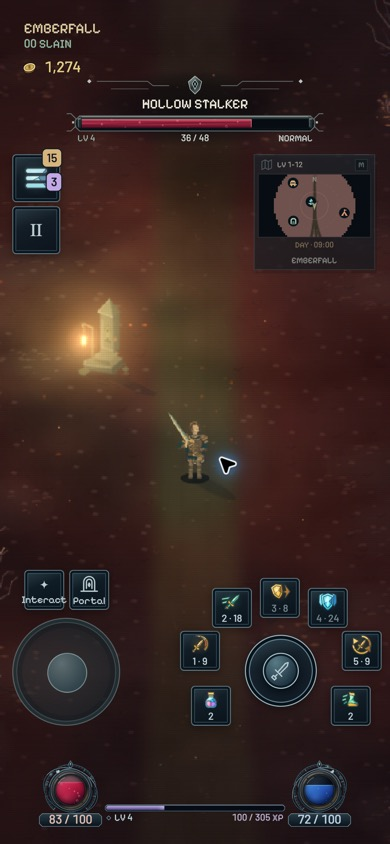
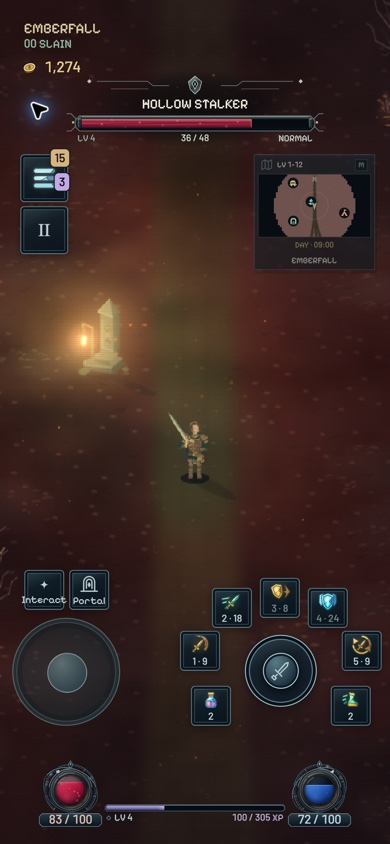
fix(mobile): align touch menu controls

Changed region(s): [[0.0308, 0.0924, 0.1846, 0.3081], [0.5231, 0.5237, 0.6154, 0.5853]]

diff --git a/game/src/touch-layout.ts b/game/src/touch-layout.ts
@@ -7,6 +7,10 @@ export type TouchMenuLayout = { rect: TouchRect; pause: TouchRect; mode: 'portra
 
 const MENU_BUTTON = 48;
 const MENU_GAP = 4;
+const LANDSCAPE_MENU_ART_INSET = 4;
+// The compact landscape header scales the gold artwork to 80%; its glow ends
+// roughly 48 CSS pixels below the safe top.
+const LANDSCAPE_GOLD_PANEL_BOTTOM = 48;
 // CSS-pixel landing just below the normal portrait target plate. This keeps the
 // two side controls aligned without making their position depend on target focus.
 const PORTRAIT_TARGET_PLATE_BOTTOM = 146;
@@ -20,7 +24,9 @@ export function touchWorldActionsTop(view: TouchViewport) {
 
 /** The compact navigation trigger stays at the edge while thumb controls own the bottom. */
 export function touchMenuLayout(view: TouchViewport, controlsTop = view.height): TouchMenuLayout {
-  const side = Math.max(12, view.left);
+  // Portrait world actions start at 24px and use 40px buttons. Center the
+  // 48px menu targets on their first button while preserving the safe inset.
+  const side = Math.max(20, view.left);
   const groupHeight = MENU_BUTTON * 2 + MENU_GAP;
   const safeTop = view.top + 4;
   const targetTop = Math.max(view.top + 4, PORTRAIT_TARGET_PLATE_BOTTOM + PORTRAIT_TARGET_GAP);
@@ -49,10 +55,13 @@ export function phoneLandscapeLayout(view: TouchViewport) {
   const scale = Math.min(.72, centeredResourceWidth / 440);
   const footer = {x:view.width/2-260*scale,y:view.height-bottom-147*scale,scale};
   const resources = {x:footer.x+40*scale,y:footer.y+54*scale,width:440*scale,height:93*scale};
-  const menuY = worldActions.y - MENU_BUTTON * 2 - MENU_GAP * 2;
+  const menuHeight = MENU_BUTTON * 2 + MENU_GAP;
+  const goldBottom = Math.max(8, view.top + LANDSCAPE_GOLD_PANEL_BOTTOM);
+  const menuY = (goldBottom + worldActions.y - menuHeight) / 2;
   const landscapeMenu = {mode:'landscape' as const,
-    rect:{x:move.x + move.width / 2 - MENU_BUTTON / 2,y:menuY,width:MENU_BUTTON,height:MENU_BUTTON},
-    pause:{x:move.x + move.width / 2 - MENU_BUTTON / 2,y:menuY+MENU_BUTTON+MENU_GAP,width:MENU_BUTTON,height:MENU_BUTTON}};
-  const menu = menuY >= Math.max(4, view.top) ? landscapeMenu : touchMenuLayout(view, worldActions.y);
+    rect:{x:worldActions.x-LANDSCAPE_MENU_ART_INSET,y:menuY,width:MENU_BUTTON,height:MENU_BUTTON},
+    pause:{x:worldActions.x-LANDSCAPE_MENU_ART_INSET,y:menuY+MENU_BUTTON+MENU_GAP,width:MENU_BUTTON,height:MENU_BUTTON}};
+  const menuFits = menuY >= Math.max(4, view.top) && menuY + menuHeight + MENU_GAP <= worldActions.y;
+  const menu = menuFits ? landscapeMenu : touchMenuLayout(view, worldActions.y);
   return {move,actions,worldActions,footer,resources,menu,bottom,left,right,top:Math.max(8,view.top+4)};
 }

diff --git a/game/tests/touch-layout.test.ts b/game/tests/touch-layout.test.ts
@@ -18,9 +18,11 @@ test('phone landscape resources and thumb controls remain separate across Safari
     if(layout.menu.mode==='landscape') {
       assert.equal(layout.menu.pause.x,layout.menu.rect.x);
       assert.equal(layout.menu.pause.y,layout.menu.rect.y+52);
-      assert.equal(layout.menu.rect.x+layout.menu.rect.width/2,layout.move.x+layout.move.width/2);
-      assert.equal(layout.menu.rect.x+layout.menu.rect.width/2,layout.worldActions.x+layout.worldActions.width/2);
-      assert.equal(layout.menu.pause.y+layout.menu.pause.height+4,layout.worldActions.y);
+      assert.equal(layout.menu.rect.x+4,layout.worldActions.x);
+      assert.equal(layout.menu.pause.x+4,layout.worldActions.x);
+      const goldBottom=Math.max(8,view.top+48);
+      const menuGroupCenter=(layout.menu.rect.y+layout.menu.pause.y+layout.menu.pause.height)/2;
+      assert.equal(menuGroupCenter,(goldBottom+layout.worldActions.y)/2);
     }
     assert.ok(Math.abs(layout.resources.x+layout.resources.width/2-width/2)<1e-9);
     assert.ok(Math.abs(layout.worldActions.x+layout.worldActions.width/2-layout.move.x-layout.move.width/2)<1e-9);
@@ -43,7 +45,8 @@ test('portrait menu trigger and minimap align just below the target plate',()=>{
   const controlsTop=touchWorldActionsTop(portrait);
   const menu=touchMenuLayout(portrait,controlsTop);
   assert.equal(menu.mode,'portrait'); assert.deepEqual([menu.rect.width,menu.rect.height],[48,48]);
-  assert.equal(menu.rect.x,12); assert.equal(menu.pause.x,menu.rect.x);
+  assert.equal(menu.rect.x,20); assert.equal(menu.pause.x,menu.rect.x);
+  assert.equal(menu.rect.x+menu.rect.width/2,24+40/2);
   assert.equal(menu.rect.y,154);
   assert.equal(menu.pause.y,menu.rect.y+52);
   assert.equal(touchMinimapTop(menu),menu.rect.y);

diff --git a/docs/touch-controls.md b/docs/touch-controls.md
@@ -36,7 +36,7 @@ Touch styles are scoped to `.touch-mode`. Menus, inventory, services, the atlas,
 
 Mobile/coarse-pointer browsers and the Android WebView use a `0.8` presentation-density profile captured at startup. The DOM viewport keeps its physical CSS dimensions and the existing world/UI buffer policies remain unchanged; the renderer exposes 1.25× the logical field in each dimension and scales its Canvas presentation without changing gameplay `CameraZoom`. Switching between touch and a physical controller does not reset this profile. The persistent secondary-menu targets remain at least 44 CSS pixels even where visual density is reduced.
 
-The compact HUD uses 40px skill and utility buttons, a 72px attack pad and a 108px movement disc. Portrait places a 48px colored menu trigger on the left and aligns its top with the translucent minimap on the right, leaving a small gap below the target plate. Pause remains a separate target below the trigger. The trigger opens the same five-destination list as the desktop HUD: Character, Inventory, Skill tree, Journeys and World map. Standard phone landscape stacks Menu and Pause above Interact/Portal; the three controls share the movement disc’s horizontal center, and the destination list opens beside the trigger as it does in portrait. Character opens Stats and Inventory opens Bag directly. Touch buttons use the Astral HUD’s inset silver and black-steel framing. All bottom controls leave a dedicated clearance band for the resource orbs, existing XP rail, numeric readouts and accumulating XP caption; reward flights retain their shared landing coordinates. In both orientations, the movement and attack circles share the same horizontal center line. Interact/Portal sits above the movement disc with an 8px gap; its top may sit slightly above the highest skill button to preserve that spacing. In landscape, the life/mana HUD shares the player’s horizontal center and the minimap returns to the safe top-right corner. Enemy and boss plates stay centered at the top on touch; phone landscape halves the prior top gap while preserving the safe-area inset. The local touch study includes a staged target plate for layout feedback. Desktop geometry is unchanged.
+The compact HUD uses 40px skill and utility buttons, a 72px attack pad and a 108px movement disc. Portrait places a 48px colored menu trigger on the left, centered over the first Interact/Portal button, and aligns its top with the translucent minimap on the right, leaving a small gap below the target plate. Pause remains a separate target below the trigger. The trigger opens the same five-destination list as the desktop HUD: Character, Inventory, Skill tree, Journeys and World map. Standard phone landscape stacks Menu and Pause above Interact/Portal; the visible button faces share a common left edge, and the destination list opens beside the trigger as it does in portrait. Character opens Stats and Inventory opens Bag directly. Touch buttons use the Astral HUD’s inset silver and black-steel framing. All bottom controls leave a dedicated clearance band for the resource orbs, existing XP rail, numeric readouts and accumulating XP caption; reward flights retain their shared landing coordinates. In both orientations, the movement and attack circles share the same horizontal center line. Interact/Portal sits above the movement disc with an 8px gap; its top may sit slightly above the highest skill button to preserve that spacing. In landscape, the life/mana HUD shares the player’s horizontal center and the minimap returns to the safe top-right corner. Enemy and boss plates stay centered at the top on touch; phone landscape halves the prior top gap while preserving the safe-area inset. The local touch study includes a staged target plate for layout feedback. Desktop geometry is unchanged.
 
 Touch panel chrome uses 40px header rows, 16px titles, 20px emblems and 32px close/toolbar controls. In landscape the character’s Bag/Equipment/Stats tabs share its title row; narrow portrait layouts wrap them below. Inventory section spacing and the XP footer are compact, leaving more height for actual items. Header labels suppress native text selection/callouts, while search and form inputs retain text editing. Desktop panel sizing stays unchanged.
 
@@ -50,7 +50,7 @@ The web app manifest and Apple metadata configure a Home Screen launch without S
 
 Landscape viewports at least 600px wide and at most 500px tall use a shared CSS-pixel layout (`touch-layout.ts`). The 96px movement stick and 202×148px action cluster sit in opposite bottom corners inside safe areas. The Astral resource footer scales into the gap between them instead of lifting the controls above it. Gold and XP flights land at the same relocated counters. The target plate is a compact 173×50px at the top, and top-left counters respect the notch inset.
 
-The colored navigation trigger and Pause form a vertical column above Interact/Portal on the movement-disc axis. The destination list opens beside the trigger and is height-bounded when landscape space is short. The mini journey tracker is omitted in this layout; a reduced translucent minimap remains visible for orientation. One compact pickup notification is shown below the target plate. Safari visual-viewport changes resize the shell, world buffer, native UI and touch geometry together. The static touch study uses the same presentation policy and layout. These are code-checked bounds, not a claim of physical iPhone acceptance.
+The colored navigation trigger and Pause form a vertical column above Interact/Portal. Their visible 40px faces align to the left edge of its first button, and the column is centered in the open space between the gold header and Interact/Portal. The destination list opens beside the trigger and is height-bounded when landscape space is short. The mini journey tracker is omitted in this layout; a reduced translucent minimap remains visible for orientation. One compact pickup notification is shown below the target plate. Safari visual-viewport changes resize the shell, world buffer, native UI and touch geometry together. The static touch study uses the same presentation policy and layout. These are code-checked bounds, not a claim of physical iPhone acceptance.
 
 ## State and lifecycle safety
 
